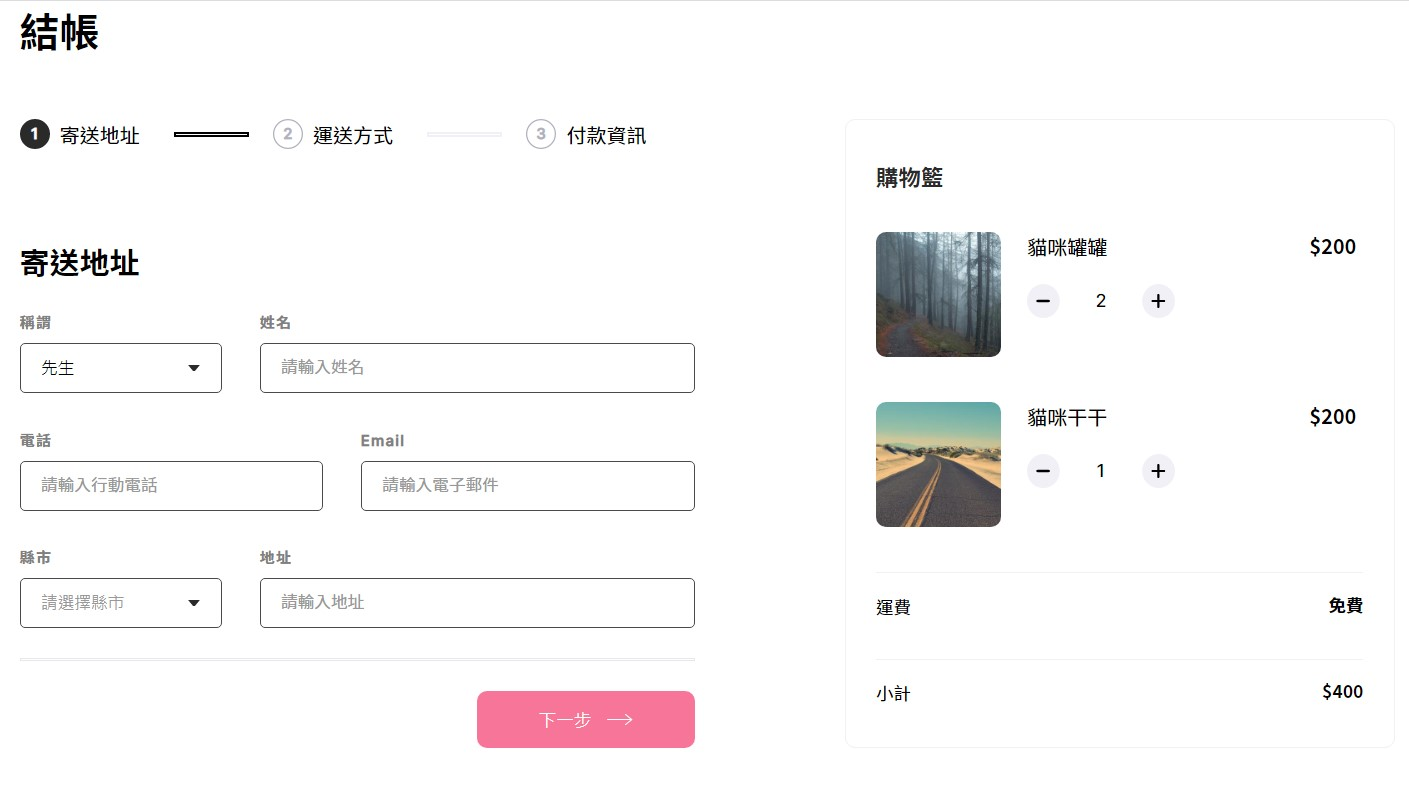
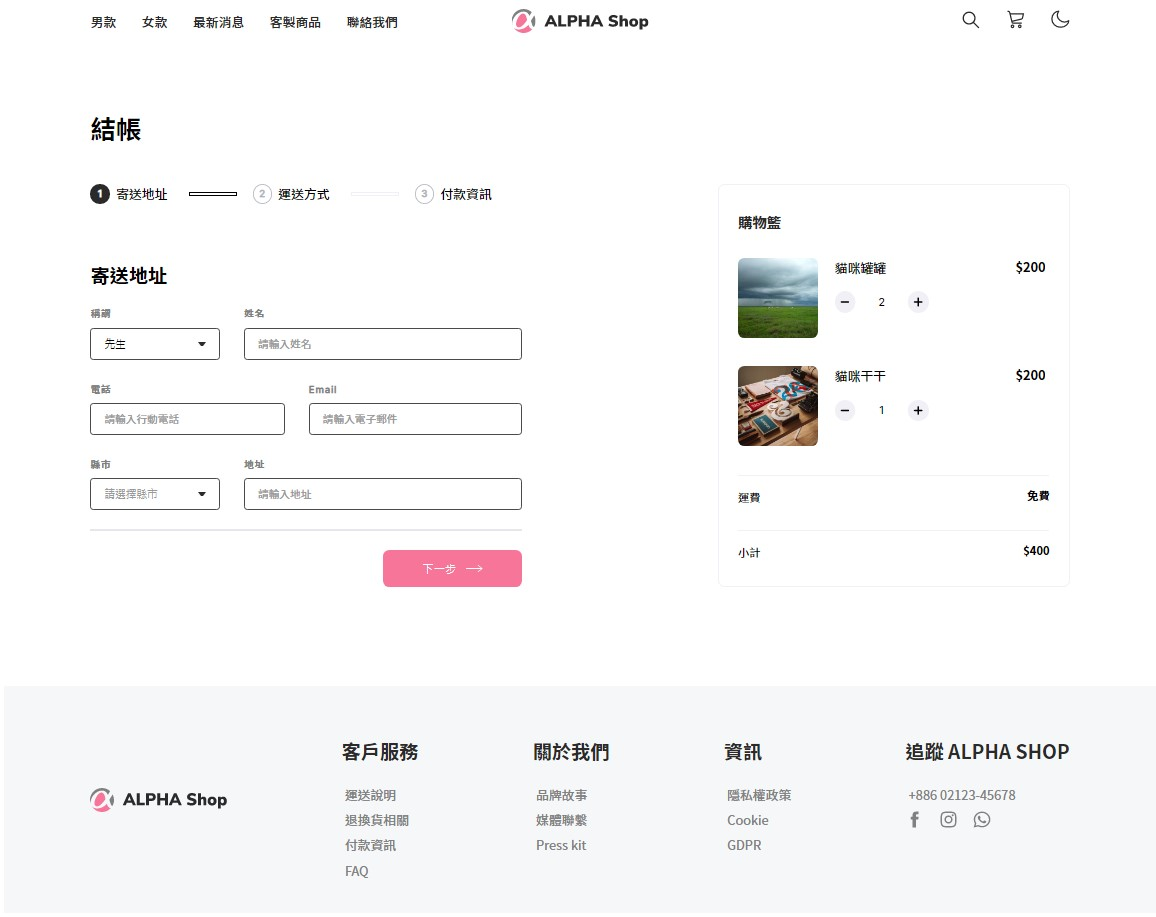
Feat: styled Footer components

diff --git a/src/components/Footer/Footer.js b/src/components/Footer/Footer.js
@@ -7,7 +7,7 @@ import styles from './Footer.module.scss'
 function Footer () {
   return (
     <footer className={styles.footer}>
-      <LogoWrap />
+      <LogoWrap className={ styles.logo}/>
       <Menu>
         <MenuTitle title={'客戶服務'}/>
         <MenuItem name={'運送說明'}/>
@@ -30,11 +30,11 @@ function Footer () {
       <Menu>
         <MenuTitle title={'追蹤 ALPHA SHOP'}/>
         <MenuItem name={'+886 02123-45678'}/>
-      </Menu>
-      <Menu>
-        <Icon iconName={FacebookIcon} alt={'Facebook'}/>
-        <Icon iconName={InsIcon} alt={'Ins'}/>
-        <Icon iconName={WechatIcon} alt={'Wechat'}/>
+        <IconWrap>
+          <Icon iconName={FacebookIcon} alt={'Facebook'}/>
+          <Icon iconName={InsIcon} alt={'Ins'}/>
+          <Icon iconName={WechatIcon} alt={'Wechat'}/>
+        </IconWrap>
       </Menu>
 
     </footer>
@@ -44,20 +44,20 @@ function Footer () {
 export default Footer
 
 function Menu({ children }) {
-  return (
-    <ul>
-      {children}
-    </ul>
-  )
+  return <ul className={styles.menu}>{children}</ul>
 }
 
 function MenuTitle( {title}) {
-  return <h3>{title}</h3>
+  return <h3 className={styles.title}>{title}</h3>
 }
 function MenuItem({ name }) {
   return (
-    <li><a href="/">{name}</a></li>
+    <li><a href="/" className={styles.menuItem}>{name}</a></li>
   )
+}
+
+function IconWrap ({ children }) {
+  return <ul className={styles.iconWrap}>{children}</ul>
 }
 
 function Icon({ iconName, alt }) {

diff --git a/src/components/Footer/Footer.module.scss b/src/components/Footer/Footer.module.scss
@@ -1,0 +1,48 @@
+.footer {
+  width: 100%;
+  padding: 0 7.5%;
+  height: 284px;
+  background-color: var(--footerBg);
+  display: flex;
+  justify-content: space-between;
+  align-items: center;
+
+  .logo {
+      img {
+        vertical-align: middle;
+        &:last-child {
+          margin-left: 10px;
+          // 垂直置中微調
+          margin-top: 3px;
+        }
+      }
+    }
+
+  .menu {
+    height: 100%;
+    padding-top: 64px;
+    display: flex;
+    flex-direction: column;
+    gap: 8px;
+
+    .title {
+      padding-bottom: 16px;
+      font-family: 'Noto Sans TC';
+      font-weight: 700;
+      font-size: 24px;
+      color: var(--textColor)
+    }
+
+    .menuItem {
+      font-family: 'Noto Sans TC';
+      font-weight: 400;
+      color: var(--labelColor);
+      padding-left: 4px;
+    }
+
+    .iconWrap {
+      display: flex;
+      gap: 18px;
+    }
+  }
+}

diff --git a/src/components/Header/Header.js b/src/components/Header/Header.js
@@ -15,7 +15,7 @@ function Header() {
         <MenuItem title={'客製商品'} />
         <MenuItem title={'聯絡我們'} />
       </Menu>
-      <LogoWrap />
+      <LogoWrap className={styles.logo}/>
       <Menu>
         <Icon iconName={SearchIcon} alt={'search'}/>
         <Icon iconName={CartIcon} alt={'cart'}/>
@@ -42,9 +42,9 @@ function MenuItem({ title }) {
 }
 
 
-function LogoWrap () {
+function LogoWrap({ className }) {
   return (
-    <a href='/' className={styles.logo}>
+    <a href='/' className={className}>
       <img src={LogoIcon} alt='icon'/>
       <img src={AlphaShopIcon} alt='Logo'/>
     </a>

diff --git a/src/App.css b/src/App.css
@@ -21,6 +21,8 @@
   --inputBorder: #4A4A4A;
   --radioHoverColor: #cccccc;
   
+  /* footer */
+  --footerBg: #F6F7F8;
 }
 /* CSS RESET */
 * {

diff --git a/src/components/Main/Main.module.scss b/src/components/Main/Main.module.scss
@@ -1,7 +1,7 @@
 .main {
   margin: 80px auto 0;
   width: 85%;
-  
+  padding-bottom: 124px;
   .title {
     padding-bottom: 3rem;
   }
